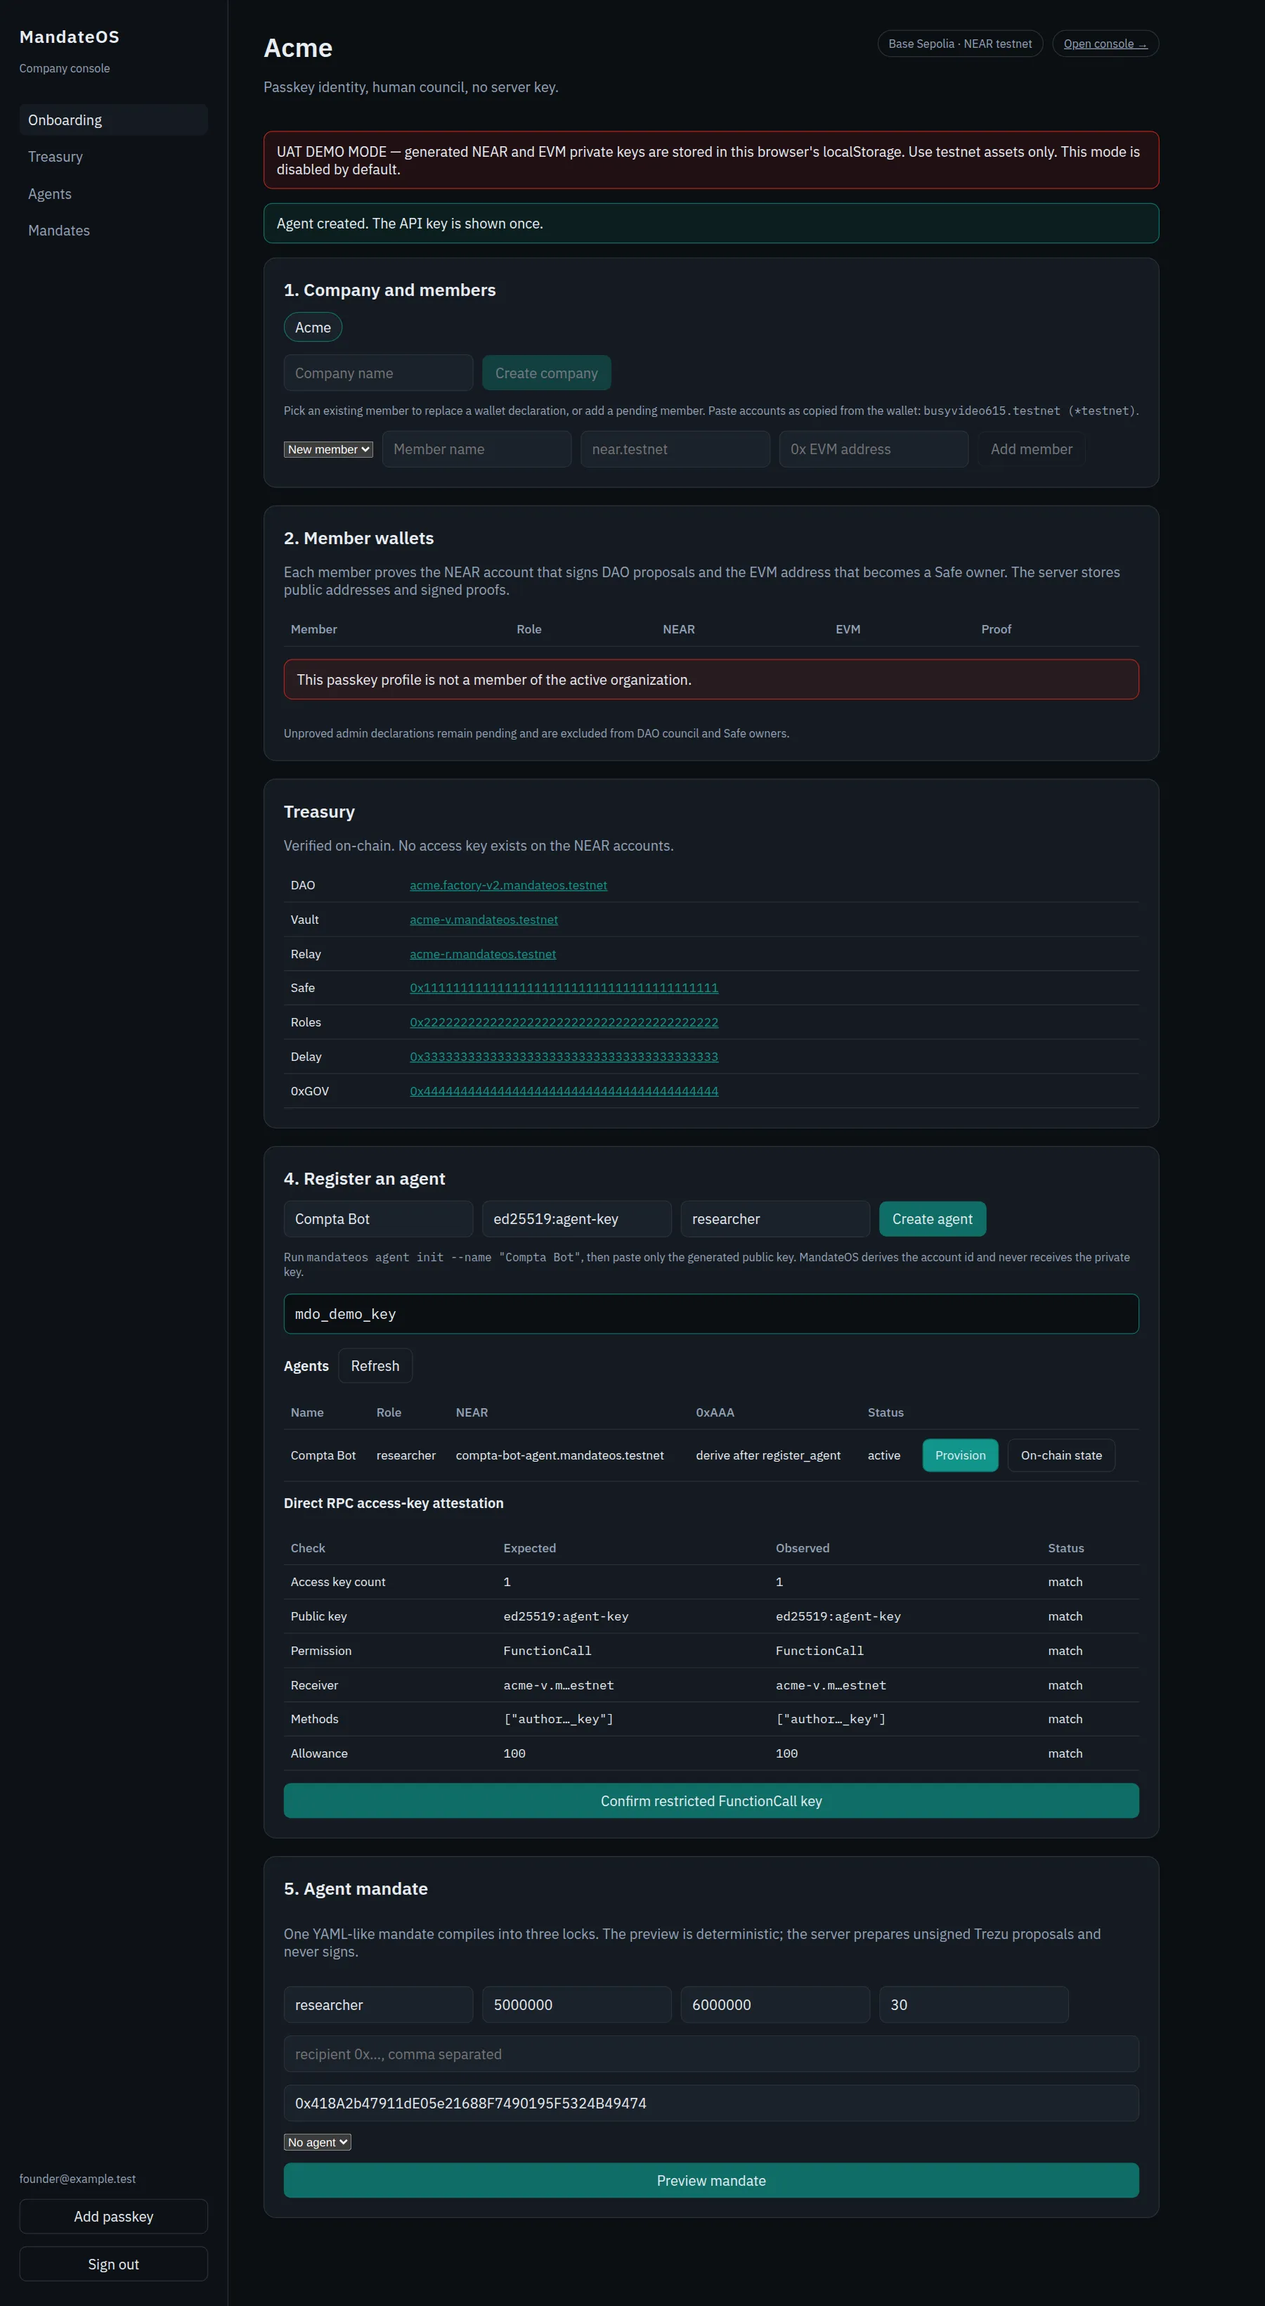
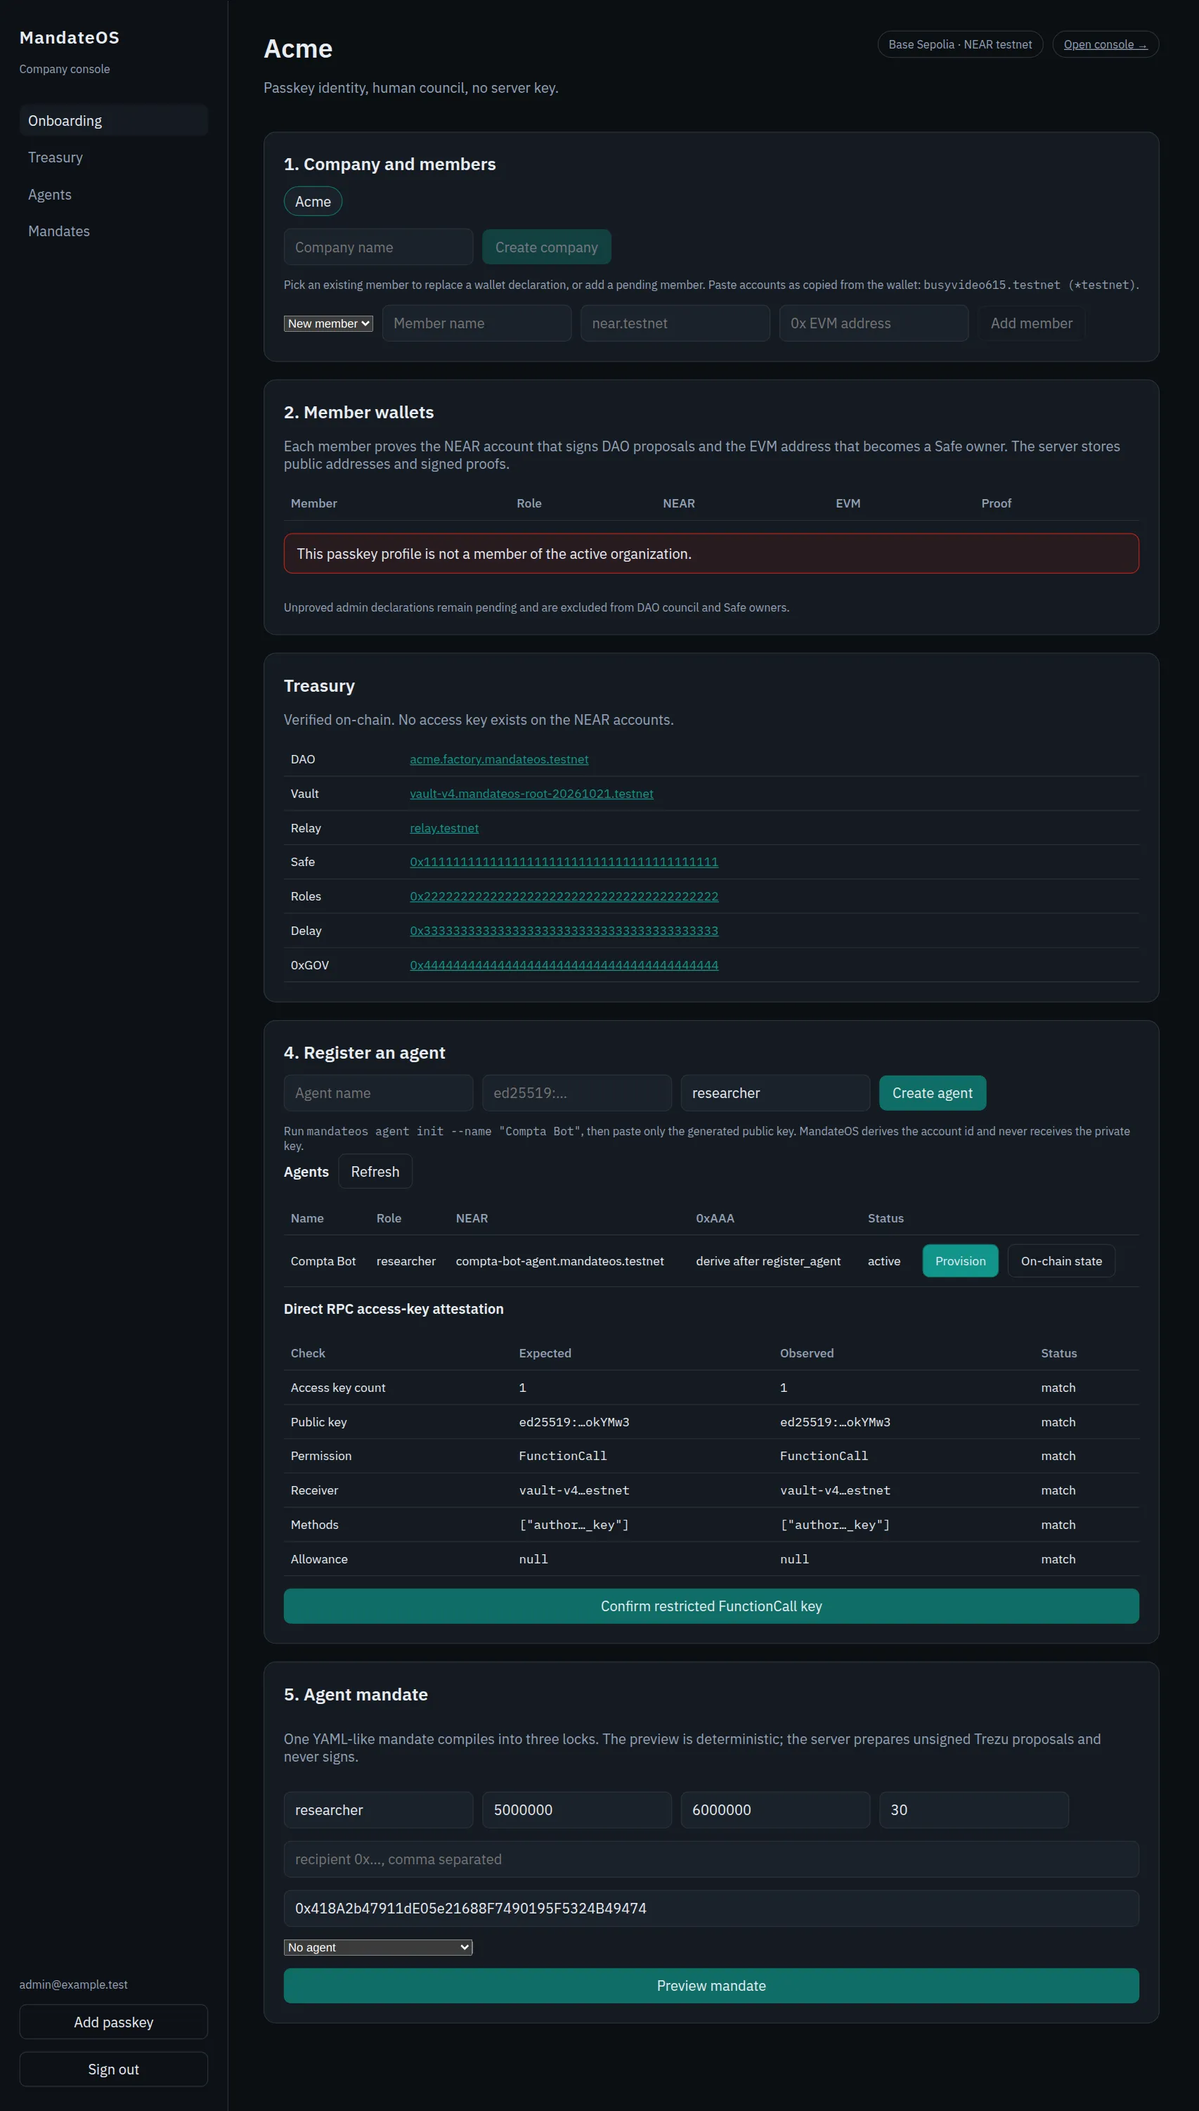
fix(agent): make restricted gas allowance durable

diff --git a/packages/sdk/src/index.test.ts b/packages/sdk/src/index.test.ts
@@ -6,6 +6,7 @@ import { describe, expect, it } from "vitest";
 
 import {
   AGENT_FUNCTION_CALL_METHODS,
+  AGENT_GAS,
   AgentDerivationPendingError,
   AgentNotRegisteredError,
   FileAgentKeyStore,
@@ -26,7 +27,7 @@ const registered = (evm: number[] | null): VaultAgentState => ({
 
 class FakeAccount implements AgentNearAccount {
   views: Array<VaultAgentState | null> = [];
-  calls: Array<{ methodName: string; args: Record<string, unknown>; deposit: string }> = [];
+  calls: Array<{ methodName: string; args: Record<string, unknown>; gas: string; deposit: string }> = [];
 
   viewFunction(): Promise<unknown> {
     return Promise.resolve(this.views.shift() ?? null);
@@ -35,9 +36,15 @@ class FakeAccount implements AgentNearAccount {
   functionCall(input: {
     methodName: string;
     args: Record<string, unknown>;
+    gas: string;
     attachedDeposit: string;
   }): Promise<{ transaction_outcome: { id: string } }> {
-    this.calls.push({ methodName: input.methodName, args: input.args, deposit: input.attachedDeposit });
+    this.calls.push({
+      methodName: input.methodName,
+      args: input.args,
+      gas: input.gas,
+      deposit: input.attachedDeposit,
+    });
     return Promise.resolve({ transaction_outcome: { id: `tx-${input.methodName}` } });
   }
 }
@@ -82,6 +89,7 @@ describe("NearAgentVaultClient derivation", () => {
     expect(account.calls).toEqual([{
       methodName: "request_derived_public_key",
       args: { agent: "agent.testnet" },
+      gas: AGENT_GAS.requestDerivedPublicKey,
       deposit: "0",
     }]);
   });
@@ -116,5 +124,16 @@ describe("NearAgentVaultClient derivation", () => {
     await expect(client.ensureDerivedAddress({ attempts: 1, intervalMs: 0 }))
       .resolves.toMatchObject({ requested: false });
     expect(account.calls).toHaveLength(1);
+  });
+  it("uses measured gas limits for prepare and authorize", async () => {
+    const account = new FakeAccount();
+    account.views.push(registered(derivedBytes));
+    const client = new NearAgentVaultClient(account, "agent.testnet", "vault.testnet");
+    await client.prepare({ amount: "1" });
+    await client.authorize([1, 2], { visa: {} });
+    expect(account.calls.map(({ methodName, gas }) => ({ methodName, gas }))).toEqual([
+      { methodName: "prepare", gas: AGENT_GAS.prepare },
+      { methodName: "authorize", gas: AGENT_GAS.authorize },
+    ]);
   });
 });

diff --git a/apps/api/src/operation-worker.test.ts b/apps/api/src/operation-worker.test.ts
@@ -1,4 +1,4 @@
-import { describe, expect, it } from "vitest";
+import { describe, expect, it, vi } from "vitest";
 import type { Hex } from "viem";
 
 import {
@@ -126,8 +126,12 @@ class FakeNear implements WorkerNearGateway {
   reportFailsAfterCommit = false;
   status: import("./near.js").NearTransactionStatus = {};
   agentState: Record<string, unknown> = { active: false };
+  gasBalanceYocto = "100000000000000000000000";
 
   constructor(public operation: VaultOperation) {}
+  getAccount(): Promise<{ amount: string }> {
+    return Promise.resolve({ amount: this.gasBalanceYocto });
+  }
 
   getOperation(): Promise<VaultOperation> {
     return Promise.resolve(this.operation);
@@ -238,6 +242,7 @@ const config: WorkerConfig = {
   retryBaseMs: 100,
   retryMaxMs: 10_000,
   cancellationSenderAccountId: "mandateos.testnet",
+  agentGasLowYocto: "50000000000000000000000",
 };
 
 function harness(overrides: Partial<VaultOperation> = {}) {
@@ -385,6 +390,16 @@ describe("OperationWorker", () => {
     test.advance(1_000);
     await test.createWorker().tick();
     expect(test.store.released).toEqual(["Cancelled"]);
+  });
+
+  it("warns without blocking when the agent NEAR gas balance is low", async () => {
+    const test = harness();
+    test.near.gasBalanceYocto = "10000000000000000000000";
+    const warning = vi.spyOn(console, "warn").mockImplementation(() => undefined);
+    await test.createWorker().tick();
+    expect(warning).toHaveBeenCalledWith(expect.stringContaining("\"event\":\"agent.gas_balance_low\""));
+    expect(warning).toHaveBeenCalledWith(expect.stringContaining("send a simple NEAR transfer to agent.testnet"));
+    warning.mockRestore();
   });
 
   it("expires Prepared operations and releases their references", async () => {

diff --git a/apps/console/src/routes/AgentDetailPage.tsx b/apps/console/src/routes/AgentDetailPage.tsx
@@ -15,6 +15,9 @@ interface Detail {
   budget: { config?: Record<string, unknown>; funded?: string; reserved?: string; spent?: string; available?: string } | null;
   nonce: number | null;
   ethBalance: string | null;
+  nearGasBalanceYocto: string | null;
+  nearGasLow: boolean;
+  nearGasLowThresholdYocto: string;
   audit: Array<{ id: string; action: string; actorId: string; createdAt: string }>;
 }
 
@@ -41,8 +44,16 @@ export function AgentDetailPage() {
               <div className="metric"><span>Status</span><strong>{query.data.agent.active ? "Active" : "Revoked"}</strong></div>
               <div className="metric"><span>0xAAA</span><strong className="mono small">{short(query.data.agent.evmAddress)}</strong></div>
               <div className="metric"><span>Gas ETH</span><strong>{formatEth(query.data.ethBalance)}</strong></div>
+              <div className="metric"><span>Gas NEAR</span><strong>{formatToken(query.data.nearGasBalanceYocto, 24, "NEAR", 4)}</strong></div>
               <div className="metric"><span>Nonce</span><strong>{formatNonce(query.data.nonce)}</strong></div>
             </div>
+            {query.data.nearGasLow ? (
+              <div className="alert error">
+                Agent gas balance is below {formatToken(query.data.nearGasLowThresholdYocto, 24, "NEAR", 4)}.
+                Recharge it with a simple NEAR transfer to <span className="mono">{query.data.agent.nearAccountId}</span>.
+                Do not add or replace its restricted key.
+              </div>
+            ) : null}
             {!query.data.onChain ? (
               <div className="alert error">
                 Agent is not registered in the Vault. Execute set_role, then register_agent before starting the SDK.

diff --git a/apps/api/src/operation-worker.ts b/apps/api/src/operation-worker.ts
@@ -69,6 +69,7 @@ export interface WorkerStore {
 
 export interface WorkerNearGateway {
   getOperation(vaultAccountId: string, opId: number[]): Promise<VaultOperation>;
+  getAccount(accountId: string): Promise<{ amount: string }>;
   currentBlockHeight(): Promise<number>;
   transactionStatus(txHash: string, senderAccountId: string): Promise<NearTransactionStatus>;
   submitSignature(vaultAccountId: string, opId: number[], signature: MpcSignature): Promise<string>;
@@ -100,6 +101,7 @@ export interface WorkerConfig {
   retryBaseMs: number;
   retryMaxMs: number;
   cancellationSenderAccountId: string;
+  agentGasLowYocto: string;
 }
 
 function opBytes(opId: string): number[] {
@@ -280,6 +282,21 @@ export class OperationWorker {
     const derivedAddress = onChainAgentEvmAddress(chainAgent);
     if (derivedAddress && derivedAddress !== record.agentEvmAddress) {
       await this.store.syncAgentEvmAddress(record, derivedAddress);
+    }
+    try {
+      const agentAccount = await this.near.getAccount(record.agentNearAccountId);
+      if (BigInt(agentAccount.amount) < BigInt(this.config.agentGasLowYocto)) {
+        console.warn(JSON.stringify({
+          event: "agent.gas_balance_low",
+          agentId: record.agentId,
+          nearAccountId: record.agentNearAccountId,
+          balanceYocto: agentAccount.amount,
+          thresholdYocto: this.config.agentGasLowYocto,
+          resolution: `send a simple NEAR transfer to ${record.agentNearAccountId}`,
+        }));
+      }
+    } catch {
+      // Balance alerting must not block payment recovery.
     }
     if (operation.state === "Confirmed") {
       const txHash = operation.signed_transaction

diff --git a/apps/api/src/agent-provisioning.ts b/apps/api/src/agent-provisioning.ts
@@ -8,7 +8,7 @@ export interface AgentAccessKeyExpectation {
   publicKey: string;
   vaultAccountId: string;
   methodNames: string[];
-  allowanceYocto: string;
+  allowanceYocto: null;
 }
 
 export interface AgentAccessKeyAttestation {
@@ -74,7 +74,6 @@ export class AgentProvisioningService {
     private readonly parentAccountId: string,
     private readonly dailyLimit: number,
     private readonly reserveYocto: string,
-    private readonly allowanceYocto: string,
   ) {}
 
   async provision(organizationId: string, agentId: string): Promise<{
@@ -105,7 +104,7 @@ export class AgentProvisioningService {
         receiverId: expectation.vaultAccountId,
         methodNames: expectation.methodNames,
         reserveYocto: this.reserveYocto,
-        allowanceYocto: this.allowanceYocto,
+        allowanceYocto: null,
       });
     } catch (error) {
       const attestation = await this.attestation(expectation).catch(() => null);
@@ -186,7 +185,7 @@ export class AgentProvisioningService {
       publicKey: agent.nearPublicKey,
       vaultAccountId: agent.vaultAccountId,
       methodNames: [...AGENT_FUNCTION_CALL_METHODS],
-      allowanceYocto: this.allowanceYocto,
+      allowanceYocto: null,
     };
   }
 
@@ -227,7 +226,7 @@ export class AgentProvisioningService {
             vaultAccountId: agent.vaultAccountId,
             methodNames: [...AGENT_FUNCTION_CALL_METHODS],
             reserveYocto: this.reserveYocto,
-            allowanceYocto: this.allowanceYocto,
+            allowanceYocto: null,
             status: "reserved",
             transactionHash: null,
             confirmedAt: null,

diff --git a/apps/api/src/agent-provisioning.integration.test.ts b/apps/api/src/agent-provisioning.integration.test.ts
@@ -31,7 +31,7 @@ describe.skipIf(!databaseUrl)("AgentProvisioningService against PostgreSQL", () 
     const accessKey = {
       public_key: publicKey,
       access_key: { permission: { FunctionCall: {
-        allowance: "100000000000000000000000",
+        allowance: null,
         receiver_id: "vault.testnet",
         method_names: [...AGENT_FUNCTION_CALL_METHODS],
       } } },
@@ -69,7 +69,6 @@ describe.skipIf(!databaseUrl)("AgentProvisioningService against PostgreSQL", () 
       "mandateos.testnet",
       5,
       "300000000000000000000000",
-      "100000000000000000000000",
     );
     await expect(service.provision(organizationId, agentId)).resolves.toMatchObject({
       status: "provisioned",
@@ -82,7 +81,7 @@ describe.skipIf(!databaseUrl)("AgentProvisioningService against PostgreSQL", () 
       receiverId: "vault.testnet",
       methodNames: [...AGENT_FUNCTION_CALL_METHODS],
       reserveYocto: "300000000000000000000000",
-      allowanceYocto: "100000000000000000000000",
+      allowanceYocto: null,
     }]);
     await expect(service.confirm(organizationId, agentId)).resolves.toMatchObject({
       status: "confirmed",
@@ -118,7 +117,6 @@ describe.skipIf(!databaseUrl)("AgentProvisioningService against PostgreSQL", () 
       "mandateos.testnet",
       1,
       "300000000000000000000000",
-      "100000000000000000000000",
     );
     await expect(capped.provision(organizationId, secondAgentId))
       .rejects.toMatchObject({ code: "daily_sponsorship_limit" });

diff --git a/apps/api/src/console-data.ts b/apps/api/src/console-data.ts
@@ -14,6 +14,7 @@ export class ConsoleDataService {
     private readonly prisma: PrismaClient,
     private readonly near: NearClient,
     private readonly baseRpcUrl: string,
+    private readonly agentGasLowYocto = "50000000000000000000000",
   ) {}
 
   async overview(organizationId: string) {
@@ -122,6 +123,15 @@ export class ConsoleDataService {
     let onChain: unknown = null;
     let mandate: unknown = null;
     let ethBalance: string | null = null;
+    let nearGasBalanceYocto: string | null = null;
+    try {
+      nearGasBalanceYocto = (await this.near.getAccount(agent.nearAccountId)).amount;
+    } catch {
+      nearGasBalanceYocto = null;
+    }
+    const nearGasLow =
+      nearGasBalanceYocto !== null &&
+      BigInt(nearGasBalanceYocto) < BigInt(this.agentGasLowYocto);
     if (treasury) {
       try {
         onChain = await this.near.viewFunction(treasury.vaultAccountId, "get_agent", { agent: agent.nearAccountId });
@@ -160,7 +170,20 @@ export class ConsoleDataService {
         nonce = null;
       }
     }
-    return plain({ agent, treasury, provisioning, onChain, mandate, budget, nonce, ethBalance, audit: audits });
+    return plain({
+      agent,
+      treasury,
+      provisioning,
+      onChain,
+      mandate,
+      budget,
+      nonce,
+      ethBalance,
+      nearGasBalanceYocto,
+      nearGasLow,
+      nearGasLowThresholdYocto: this.agentGasLowYocto,
+      audit: audits,
+    });
   }
 
   async governance(organizationId: string) {

diff --git a/packages/sdk/src/index.ts b/packages/sdk/src/index.ts
@@ -11,6 +11,12 @@ export const AGENT_FUNCTION_CALL_METHODS = [
   "cancel_nonce",
   "request_derived_public_key",
 ] as const;
+export const AGENT_GAS = {
+  requestDerivedPublicKey: "50000000000000",
+  prepare: "10000000000000",
+  authorize: "50000000000000",
+} as const;
+
 
 export function proposedAgentAccountId(name: string, parent: string): string {
   const slug = name
@@ -158,7 +164,7 @@ export class NearAgentVaultClient {
       contractId: this.vaultAccountId,
       methodName: "request_derived_public_key",
       args: { agent: this.accountId },
-      gas: "50000000000000",
+      gas: AGENT_GAS.requestDerivedPublicKey,
       attachedDeposit: "0",
     }).then((outcome) => outcome.transaction_outcome.id);
     const nearTransactionHash = await this.derivationRequest;
@@ -185,7 +191,16 @@ export class NearAgentVaultClient {
       contractId: this.vaultAccountId,
       methodName: "prepare",
       args: { intent },
-      gas: "120000000000000",
+      gas: AGENT_GAS.prepare,
+      attachedDeposit: "0",
+    });
+  }
+  async authorize(opId: number[] | string, approval: Record<string, unknown>): Promise<unknown> {
+    return this.account.functionCall({
+      contractId: this.vaultAccountId,
+      methodName: "authorize",
+      args: { op_id: opId, approval },
+      gas: AGENT_GAS.authorize,
       attachedDeposit: "0",
     });
   }

diff --git a/apps/api/src/server.ts b/apps/api/src/server.ts
@@ -36,7 +36,6 @@ const agentProvisioning = new AgentProvisioningService(
   env.NEAR_ACCOUNT_PARENT,
   env.NEAR_SPONSOR_DAILY_WALLET_LIMIT,
   env.NEAR_AGENT_GAS_RESERVE_YOCTO,
-  env.NEAR_AGENT_FC_ALLOWANCE_YOCTO,
 );
 const treasury = new TreasuryService(prisma, near, signer, {
   nearNetwork: env.NEAR_NETWORK_ID,
@@ -72,7 +71,12 @@ const treasury = new TreasuryService(prisma, near, signer, {
 const mandates = new MandateService(prisma, near);
 const registryService = new RegistryService(prisma);
 const payments = new PaymentService(prisma, near, guard, registryService);
-const consoleData = new ConsoleDataService(prisma, near, env.BASE_SEPOLIA_RPC_URL);
+const consoleData = new ConsoleDataService(
+  prisma,
+  near,
+  env.BASE_SEPOLIA_RPC_URL,
+  env.NEAR_AGENT_GAS_LOW_YOCTO,
+);
 const app = createApp({
   near,
   guard,

diff --git a/apps/api/src/near-provisioning.test.ts b/apps/api/src/near-provisioning.test.ts
@@ -26,7 +26,7 @@ it("provisions the agent in one transaction with one restricted FunctionCall key
     receiverId: "vault.testnet",
     methodNames: ["prepare", "authorize", "cancel_nonce", "request_derived_public_key"],
     reserveYocto: "300000000000000000000000",
-    allowanceYocto: "100000000000000000000000",
+    allowanceYocto: null,
   })).resolves.toBe("near-provision-hash");
 
   expect(calls).toHaveLength(1);
@@ -50,6 +50,6 @@ it("provisions the agent in one transaction with one restricted FunctionCall key
   expect(actions[2]?.addKey?.accessKey?.permission?.functionCall).toMatchObject({
     receiverId: "vault.testnet",
     methodNames: ["prepare", "authorize", "cancel_nonce", "request_derived_public_key"],
-    allowance: 100000000000000000000000n,
+    allowance: undefined,
   });
 });

diff --git a/apps/api/src/env.ts b/apps/api/src/env.ts
@@ -20,7 +20,7 @@ const schema = z.object({
   NEAR_SPONSOR_WALLET_AMOUNT_YOCTO: z.string().regex(/^\d+$/).default("500000000000000000000000"),
   UAT_DEMO_WALLETS_ENABLED: z.enum(["0", "1"]).default("0").transform((value) => value === "1"),
   NEAR_AGENT_GAS_RESERVE_YOCTO: z.string().regex(/^\d+$/).default("300000000000000000000000"),
-  NEAR_AGENT_FC_ALLOWANCE_YOCTO: z.string().regex(/^\d+$/).default("100000000000000000000000"),
+  NEAR_AGENT_GAS_LOW_YOCTO: z.string().regex(/^\d+$/).default("50000000000000000000000"),
   DAO_FACTORY_ID: z.string().min(1).default("factory-v2.mandateos.testnet"),
   DAO_CREATE_DEPOSIT_YOCTO: z.string().regex(/^\d+$/).default("250000000000000000000000"),
   DAO_GLOBAL_CODE_HASH: z.string().min(32).default("Ea8tHXFSQVszVwGASyzAfLq65DjcRDhkfab4FcPaRpgD"),

diff --git a/apps/console/src/wallets.test.ts b/apps/console/src/wallets.test.ts
@@ -57,7 +57,7 @@ describe("readAgentAccessKeyRpc", () => {
         access_key: {
           permission: {
             FunctionCall: {
-              allowance: "100",
+              allowance: null,
               receiver_id: "vault.testnet",
               method_names: ["prepare", "authorize", "cancel_nonce", "request_derived_public_key"],
             },
@@ -70,7 +70,7 @@ describe("readAgentAccessKeyRpc", () => {
       publicKey: "ed25519:agent",
       vaultAccountId: "vault.testnet",
       methodNames: ["prepare", "authorize", "cancel_nonce", "request_derived_public_key"],
-      allowanceYocto: "100",
+      allowanceYocto: null,
     })).resolves.toMatchObject({ valid: true });
   });
 });
